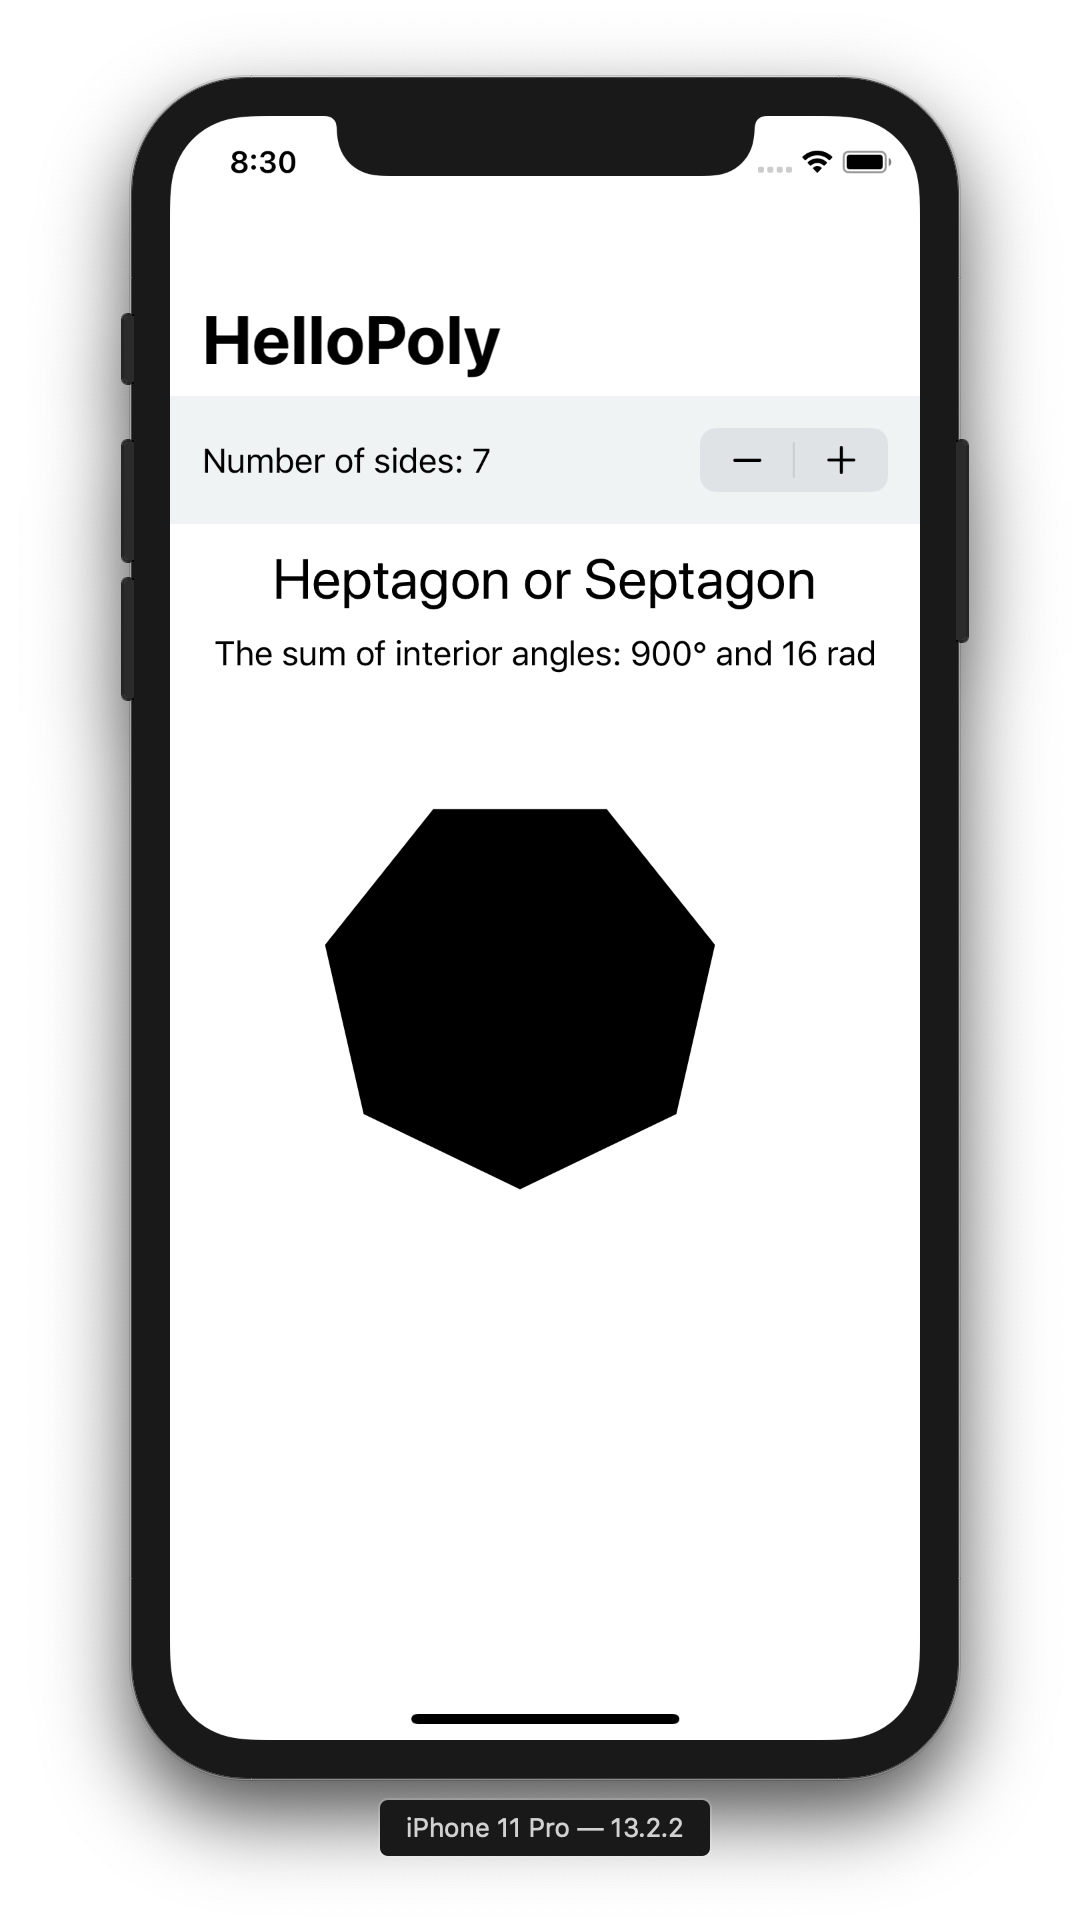
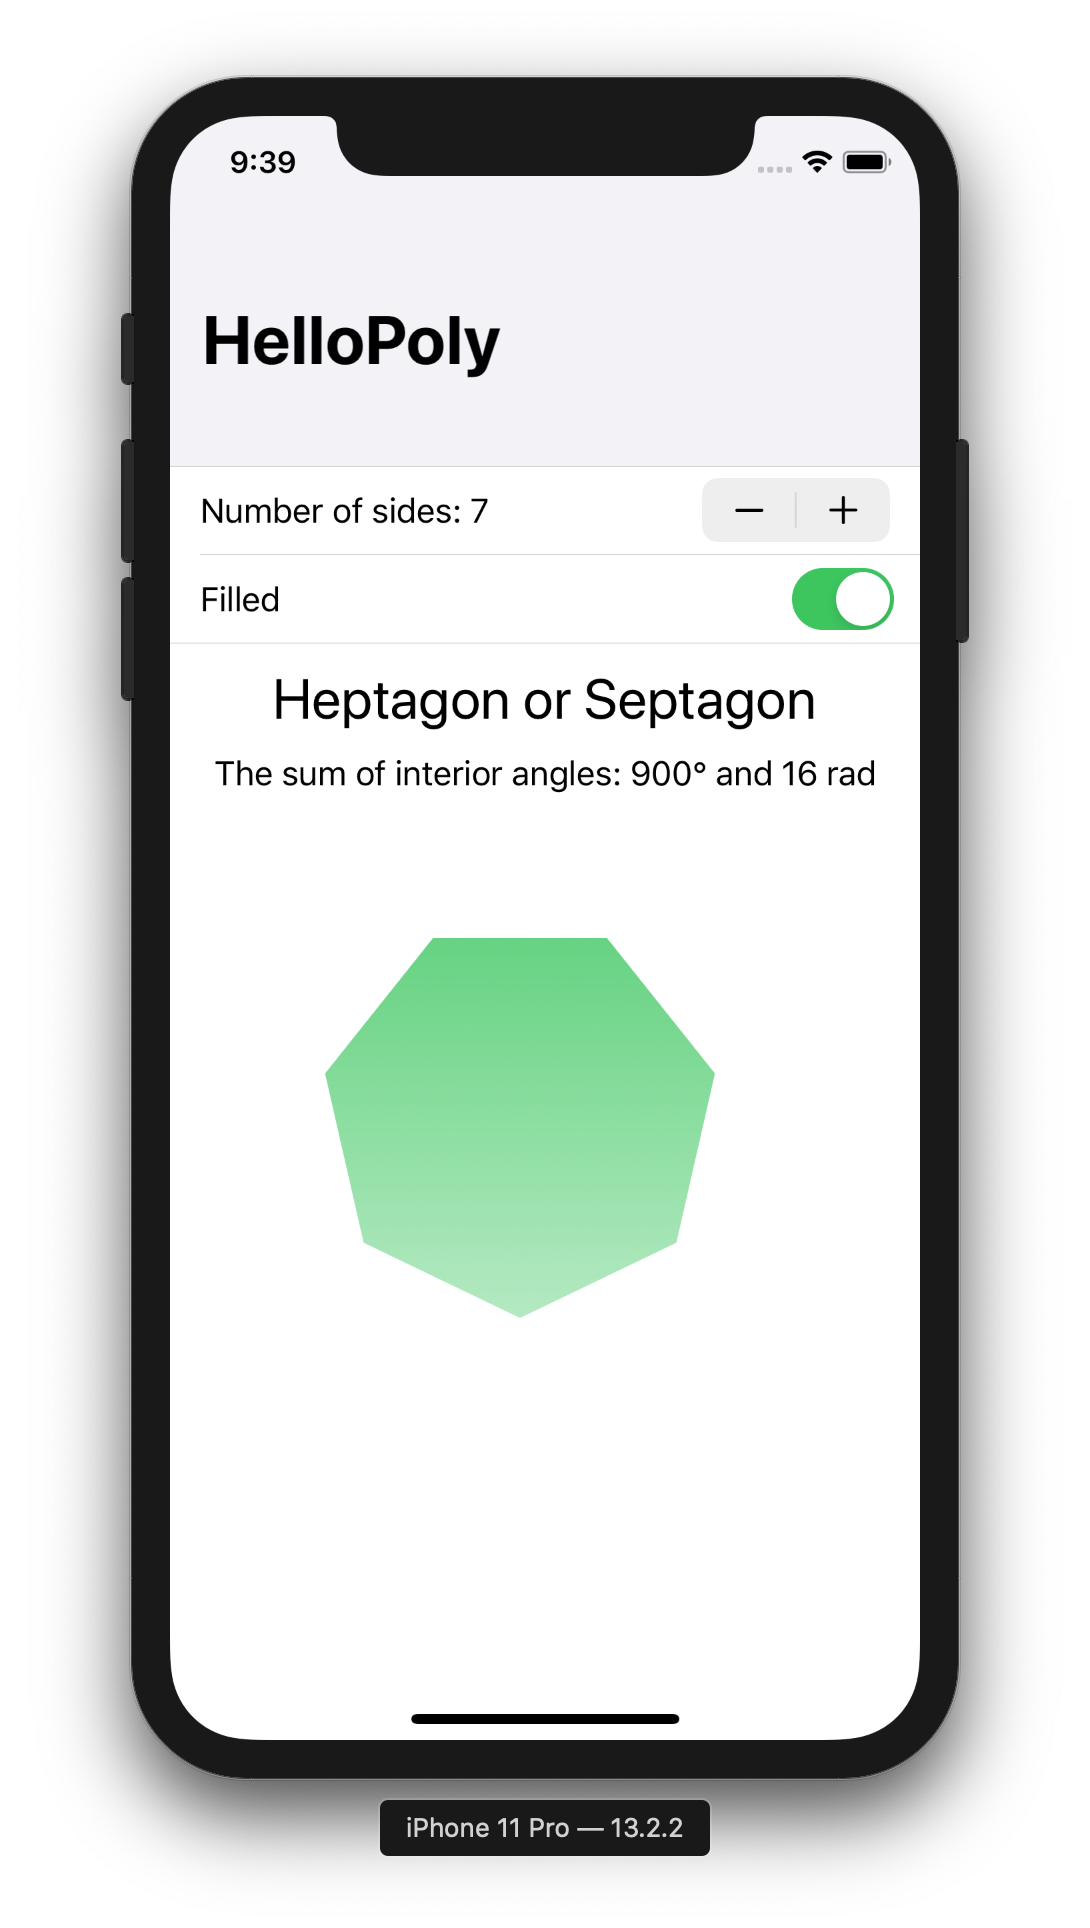
🎨 Still ugly but some styling added.

Changed region(s): [[0.1872, 0.2178, 0.811, 0.6846], [0.655, 0.2178, 0.811, 0.249], [0.2183, 0.3734, 0.2495, 0.4046]]

diff --git a/HelloPoly/ContentView.swift b/HelloPoly/ContentView.swift
@@ -11,7 +11,7 @@ import SwiftUI
 struct ContentView: View {
     
     @State var numberOfSides: Int = 3
-   
+    @State var filledPolygon: Bool = true
     
     var arrayOfPoint = [Float]()
     
@@ -19,9 +19,12 @@ struct ContentView: View {
         createPoints(numberOfSides: numberOfSides)
         return NavigationView {
             VStack  {
-                Stepper(value: $numberOfSides, in: 3...12, label: { Text("Number of sides: \(numberOfSides)")})
-                    .padding()
-                    .background(Color(red: 239.0/255.0, green: 243.0/255.0, blue: 244.0/255.0, opacity: 1.0))
+                Form {
+                    Stepper(value: $numberOfSides, in: 3...12, label: { Text("Number of sides: \(numberOfSides)")})
+                    Toggle(isOn: $filledPolygon) { Text("Filled")}
+                }
+                    .frame(maxHeight: 124)
+                     .background(Color(red: 239.0/255.0, green: 243.0/255.0, blue: 244.0/255.0, opacity: 1.0))
                     Text("\(Polygons())")
                         .font(.system(size: 28))
                         .padding(.bottom, 10)
@@ -42,7 +45,14 @@ struct ContentView: View {
                                 )
                             )
                         }
+                        path.closeSubpath()
                     }
+                    .fill( LinearGradient(
+                               gradient: Gradient(colors: [.green, .white]),
+                               startPoint: .top,
+                               endPoint: .bottom
+                           ))
+                    .opacity(0.9)
                 }
              .navigationBarTitle(Text("HelloPoly"))
         }
